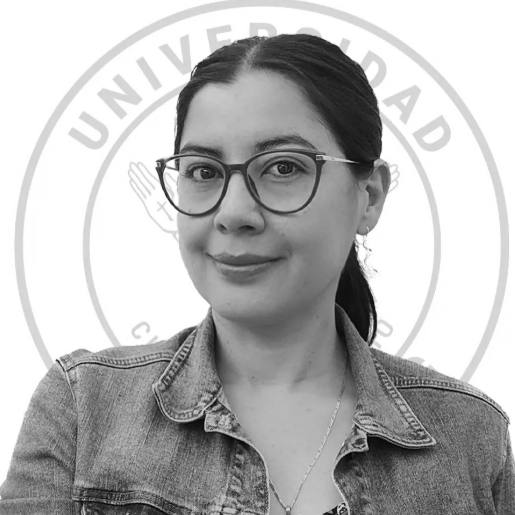
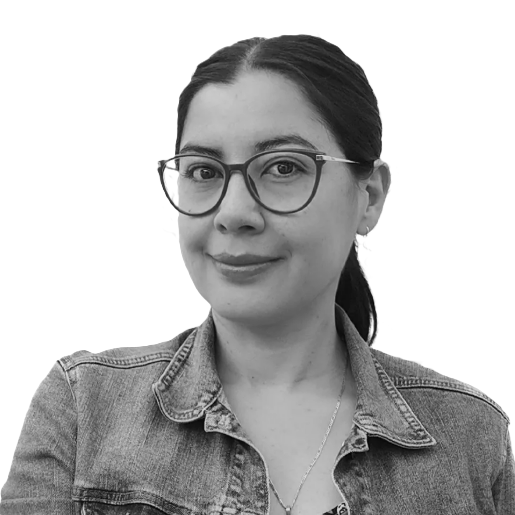
fix: Aplicar paleta estricta de 4 colores de marca, textos literales de docentes y reubicar teaser en home

diff --git a/js/data.js b/js/data.js
@@ -1065,183 +1065,169 @@ const EGRESADOS_DESTACADOS = [
 /* ═══════════════════════════════════════════════════════════════
    CUERPO DOCENTE & INVESTIGADORES (PROFESORADO)
    ═══════════════════════════════════════════════════════════════ */
+/* ═══════════════════════════════════════════════════════════════
+   CUERPO DOCENTE & INVESTIGADORES (PROFESORADO)
+   ═══════════════════════════════════════════════════════════════ */
 const DOCENTES_AREAS = {
-  taller:     { label: "Eje de Taller & Proyectos", color: "#ff7054" },
-  digital:    { label: "Medios Digitales, 3D & Motion", color: "#ffc433" },
-  editorial:  { label: "Editorial, Tipografía & Gráfica", color: "#5bc0f5" },
-  teoria:     { label: "Investigación & Semiótica", color: "#8e6ee8" },
-  publicidad: { label: "Branding, Publicidad & Gestión", color: "#34d399" },
+  taller:     { label: "Eje de Taller & Gestión", color: "#6d4ac4" },
+  digital:    { label: "Medios Digitales, 3D & TIC", color: "#ffc433" },
+  editorial:  { label: "Editorial, Fotografía & Gráfica", color: "#5bc0f5" },
+  publicidad: { label: "Branding, Estrategia & Publicidad", color: "#ff7054" },
+  teoria:     { label: "Investigación & Humanidades", color: "#6d4ac4" },
 };
 
 const DOCENTES = [
   {
     id: "doc-01",
     nombre: "Karen Eugenia Ocaña Figueroa",
-    titulo: "Magíster en Diseño Urbano y Arquitectónico Sustentable (Univ. Gestalt, México) · Especialista en Diseño de Mobiliario (UBA, Argentina)",
-    pregrado: "Diseñadora Industrial (Universidad de Nariño)",
     area: "taller",
     cargo: "Directora del Programa de Diseño Gráfico · Docente Universitaria",
-    trayectoria: "Más de seis años de experiencia liderando la formación en Diseño Gráfico e Industrial y la dirección académica del programa.",
+    perfil:
+      "Diseñadora industrial de la Universidad de Nariño, graduada de la Maestría en Diseño Urbano y Arquitectónico Sustentable de la Universidad Gestalt de Diseño, México, y especialista en Diseño de Mobiliario de la Universidad de Buenos Aires, Argentina. Docente universitaria con más de seis años de experiencia en las áreas del Diseño Gráfico e Industrial.",
     avatar: "assets/img/profesores/karen-ocana.png",
   },
   {
     id: "doc-02",
     nombre: "Mauricio Montenegro",
-    titulo: "Doctor en Tecnologías de la Información y la Comunicación (Tech) · Magíster en Tecnología Educativa y Competencias Digitales (UNIR)",
-    pregrado: "Diseñador Gráfico y Multimedial (Udenar) · Ingeniero de Sistemas (UCC) · Licenciado en Informática (Udenar)",
     area: "digital",
-    cargo: "Docente Investigador · Especialista en Tecnologías Digitales",
-    trayectoria: "Investigador en tecnologías interactivas, entornos multimediales de aprendizaje, informática educativa y competencias digitales avanzadas.",
+    cargo: "Docente Investigador · TIC & Multimedia",
+    perfil:
+      "Doctorado Universidad Tecnológica Tech: Doctorado en Tecnologías de la Información y la Comunicación | Maestría Universidad Internacional de La Rioja: Máster universitario en Tecnología Educativa y Competencias Digitales | Pregrado Universidad de Nariño: Diseño Gráfico y Multimedial | Pregrado INDESCO - Universidad Cooperativa de Colombia: Ingeniería de Sistemas | Pregrado Universidad de Nariño: Licenciatura en Informática.",
     avatar: "assets/img/profesores/mauricio-montenegro.png",
   },
   {
     id: "doc-03",
     nombre: "Karol Ibarra",
-    titulo: "Magíster en Humanidades Digitales · Especialista en Gestión Estratégica del Diseño · Especialista en Lógica y Técnica de la Forma",
-    pregrado: "Diseñadora Industrial",
     area: "digital",
-    cargo: "Docente de Planta · Investigadora",
-    trayectoria: "Especialista en humanidades digitales, morfología y lógica de la forma, y articulación estratégica entre diseño, tecnología y sociedad.",
+    cargo: "Docente de Planta · Humanidades Digitales",
+    perfil:
+      "Diseñadora Industrial | Magíster en Humanidades Digitales | Especialista en Gestión Estratégica del Diseño | Especialista en Lógica y Técnica de la Forma.",
     avatar: "assets/img/profesores/karol-ibarra.png",
   },
   {
     id: "doc-04",
     nombre: "Edison Armando Ramos Bastidas",
-    titulo: "Profesional en Diseño · Estratega en Comunicación Visual y Planeador de Marca",
-    pregrado: "Diseñador Gráfico & Consultor",
     area: "publicidad",
-    cargo: "Docente de Taller · Estratega de Marca",
-    trayectoria: "Consultor y planeador de marca con amplio enfoque en la región de Nariño y el suroccidente colombiano, impulsando la competitividad del diseño local.",
+    cargo: "Docente de Taller · Estrategia de Marca",
+    perfil:
+      "Profesional en diseño, estratega en comunicación y planeador de marca enfocado en la región de Nariño, Colombia.",
     avatar: "assets/img/profesores/edison-ramos.png",
   },
   {
     id: "doc-05",
     nombre: "Karol Suárez",
-    titulo: "Magíster en Desarrollo de Proyectos en Innovación y Producto (UNINI) · Candidata a Magíster en Diseño para la Innovación Social · Especialista en Gerencia de Diseño (UTADEO)",
-    pregrado: "Diseñadora Industrial (Universidad de Nariño)",
     area: "taller",
-    cargo: "Docente de Planta · Asesora de Proyectos",
-    trayectoria: "Experta en gerencia del diseño, desarrollo de producto centrado en las personas, metodologías de innovación y codiseño social.",
+    cargo: "Docente de Planta · Innovación y Producto",
+    perfil:
+      "Diseñadora Industrial de la Universidad de Nariño, Especialización en Gerencia de Diseño de la Universidad Jorge Tadeo Lozano, Magíster en Desarrollo de Proyectos en Innovación y Producto de la Universidad Internacional Iberoamericana de Puerto Rico y Candidata a Magíster en Diseño para la Innovación Social.",
     avatar: "assets/img/profesores/karol-suarez.png",
   },
   {
     id: "doc-06",
     nombre: "Mauricio Feuillet",
-    titulo: "Especialista en Docencia Universitaria · Especialista en Gerencia en Diseño · Candidato a Magíster en Diseño para la Innovación Social",
-    pregrado: "Diseñador Industrial",
     area: "taller",
-    cargo: "Docente de Diseño · Asesor Pedagógico",
-    trayectoria: "Amplia trayectoria en pedagogía del diseño, gestión estratégica de talleres creativos y formulación de proyectos para la innovación social.",
+    cargo: "Docente de Diseño · Innovación Social",
+    perfil:
+      "Diseñador Industrial, Docente Diseño, Especialista en Docencia Universitaria, Especialista en Gerencia en Diseño y Candidato a Magíster en Diseño para la Innovación Social.",
     avatar: "assets/img/profesores/mauricio-feuillet.png",
   },
   {
     id: "doc-07",
     nombre: "Arturo De la Cruz",
-    titulo: "Magíster en Diseño y Creación Interactiva (U. de Caldas) · Posgrado en Artes Mediales (U. de Córdoba Arg – U. de Chile – U. de Caldas)",
-    pregrado: "Ingeniero de Sistemas y Diseñador Gráfico",
     area: "digital",
-    cargo: "Docente Investigador · Creador Interactivo",
-    trayectoria: "Pionero en la integración de artes mediales, computación creativa, entornos interactivos y experimentación tecnológica en el aula.",
+    cargo: "Docente Investigador · Artes Mediales",
+    perfil:
+      "Ingeniero de Sistemas, Diseñador Gráfico, Posgrado en Artes Mediales de la Universidad de Córdoba (Arg) – Universidad de Chile – Universidad de Caldas y Magíster en Diseño y Creación Interactiva de la Universidad de Caldas.",
     avatar: "assets/img/profesores/arturo-de-la-cruz.png",
   },
   {
     id: "doc-08",
     nombre: "Mateo Terán",
-    titulo: "Magíster en Comunicación e Identidad Corporativa (Universidad Internacional de La Rioja - UNIR)",
-    pregrado: "Diseñador Gráfico",
     area: "publicidad",
-    cargo: "Docente de Taller · Consultor de Identidad",
-    trayectoria: "Especialista en sistemas de identidad visual, comunicación estratégica de marca y gestión de imagen corporativa para medios impresos y digitales.",
+    cargo: "Docente de Taller · Identidad Corporativa",
+    perfil:
+      "Diseñador Gráfico, Magíster en Comunicación e Identidad Corporativa de la Universidad Internacional de La Rioja.",
     avatar: "assets/img/profesores/mateo-teran.png",
   },
   {
     id: "doc-09",
     nombre: "Ramón Ortega",
-    titulo: "Magíster en Diseño y Creación Interactiva (U. de Caldas) · Posgrado en Artes Mediales (U. de Córdoba Arg – U. de Chile – U. de Caldas)",
-    pregrado: "Diseñador Gráfico",
     area: "digital",
-    cargo: "Docente de Planta · Exmiembro Consejo Directivo RAD (2016-2018)",
-    trayectoria: "Líder académico en artes mediales y creación interactiva, con destacada representación institucional en la Red Académica de Diseño (RAD).",
+    cargo: "Docente de Planta · Creación Interactiva",
+    perfil:
+      "Diseñador Gráfico, Posgrado en Artes Mediales de la Universidad de Córdoba (Arg) – Universidad de Chile – Universidad de Caldas y Magíster en Diseño y Creación Interactiva de la Universidad de Caldas. Miembro del Consejo Directivo de la Red Colombiana Académica de Diseño RAD periodo 2016-2018.",
     avatar: "assets/img/profesores/ramon-ortega.png",
   },
   {
     id: "doc-10",
     nombre: "Fernando Coral",
-    titulo: "Magíster en Diseño y Creación Interactiva (U. de Caldas) · Especialista en Gerencia del Diseño (UTADEO) · Tecnólogo en Producción de Radio y TV (CST)",
-    pregrado: "Diseñador Gráfico (Universidad Jorge Tadeo Lozano)",
     area: "digital",
-    cargo: "Docente de Medios Audiovisuales y Multimedia",
-    trayectoria: "Especialista en producción audiovisual, narrativa transmedia, medios sonoros y gestión gerencial de proyectos de diseño interactivo.",
+    cargo: "Docente de Medios Audiovisuales · Gerencia del Diseño",
+    perfil:
+      "Tecnólogo en Producción de Radio y Televisión del Colegio Superior de Telecomunicaciones, Diseñador Gráfico de la Universidad Jorge Tadeo Lozano, Especialista en Gerencia del Diseño de la Universidad Jorge Tadeo Lozano y Magíster en Diseño y Creación Interactiva de la Universidad de Caldas.",
     avatar: "assets/img/profesores/fernando-coral.png",
   },
   {
     id: "doc-11",
     nombre: "Amanda Arteaga",
-    titulo: "Magíster en Etnoliteratura · Especialista en Estudios Latinoamericanos · Diplomada en Pensamiento de Diseño e Identidad Gorettiana",
-    pregrado: "Profesional en Filosofía",
     area: "teoria",
-    cargo: "Docente Investigadora · Coordinadora de Área Teórica",
-    trayectoria: "Investigadora en etnoliteratura andina, pensamiento crítico, estudios culturales latinoamericanos y semiótica visual de la memoria regional.",
+    cargo: "Docente Investigadora · Etnoliteratura",
+    perfil:
+      "Docente Investigadora, Magíster en Etnoliteratura, Especialización en Estudios Latinoamericanos, Pregrado en Filosofía, Cursos de corta duración Universidad, Investigación diplomado en Identidad Gorettiana, diplomado en Pensamiento de Diseño.",
     avatar: "assets/img/profesores/amanda-arteaga.png",
   },
   {
     id: "doc-12",
     nombre: "Carlos Jiménez",
-    titulo: "Diseñador Gráfico, Investigador Visual y Fotógrafo Internacional · Reconocido en Sony World Photography Awards y 35Awards",
-    pregrado: "Diseñador Gráfico",
     area: "editorial",
-    cargo: "Docente de Fotografía, Editorial y Museografía",
-    trayectoria: "Trayectoria en diseño editorial, branding, museografía, fotografía de paisaje y arquitectura, y realización de cortometrajes galardonados.",
+    cargo: "Docente de Fotografía, Editorial & Museografía",
+    perfil:
+      "Diseñador Gráfico, Investigador y Fotógrafo colombiano. Mi experiencia abarca el Diseño Editorial, Publicitario, Branding y Museografía, así como la Fotografía de Paisaje, Naturaleza y Arquitectura. Además, me he aventurado en la producción audiovisual hasta la creación de cortometrajes, Mi carrera se ha caracterizado por un compromiso constante con la constancia y la innovación mediante la fotografía, llevándome a espacios de reconocimiento internacional como los Sony World Photography Awards o los 35Awards.",
     avatar: "assets/img/profesores/carlos-jimenez.png",
   },
   {
     id: "doc-13",
     nombre: "Juan Pinzón",
-    titulo: "Candidato a Magíster en Diseño Fotográfico (U. Iberoamericana, México) · Profesor de Tiempo Completo Universidad de Celaya y Univ. Latina de México",
-    pregrado: "Diseñador de Comunicación Visual (Pontificia Universidad Javeriana de Cali)",
     area: "editorial",
-    cargo: "Docente Invitado · Fotógrafo Documental",
-    trayectoria: "Desarrolla proyectos de fondo cultural y documental exaltando el valor del ser humano como eje de memoria, conservación y evolución cultural.",
+    cargo: "Docente Invitado · Fotografía Documental",
+    perfil:
+      "Fotógrafo colombiano, residente en México, Diseñador de Comunicación Visual de la Universidad Javeriana de Cali Colombia y candidato a Magíster en Diseño Fotográfico por la Universidad Iberoamericana de México. Actualmente se desempeña como profesor tiempo completo de la Universidad de Celaya y profesor por horas en la Universidad Latina de México (Celaya). Su trabajo de perfil documental se centra en desarrollar proyectos de fondo cultural donde exalta el valor del ser humano como eje fundamental de la memoria, conservación y evolución cultural.",
     avatar: "assets/img/profesores/juan-pinzon.png",
   },
   {
     id: "doc-14",
-    nombre: "Camilo Andrés Varona Guerrero",
-    titulo: "Maestro Artesano Contemporáneo · Fundador de Taller Makaco (Art Toys) · Docente Universitario",
-    pregrado: "Diseñador Gráfico (Universidad CESMAG)",
+    nombre: "Camilo Varona",
     area: "taller",
-    cargo: "Docente de Taller · Coordinación de Egresados UNICESMAG",
-    trayectoria: "Fundador de Makaco (2012), pionero en art toys artesanales que fusionan ilustración, narrativa andina y memoria oral tradicional con proyección internacional.",
+    cargo: "Docente de Taller · Art Toys & Ilustración",
+    perfil:
+      "Diseñador gráfico de la Universidad CESMAG, encontró en la ilustración y la cuentería una forma de dar vida a la tradición oral que marcó su infancia. En 2012 fundó su taller Makaco, dedicado a la creación artesanal de art toys, donde fusiona técnica, narrativa y memoria. Su obra, reconocida dentro y fuera del país, transforma el juego en arte y la artesanía en un lenguaje contemporáneo. Como maestro artesano contemporáneo, su trabajo celebra la imaginación y rescata las historias del territorio, recordando que cada pieza es un pequeño universo hecho a mano.",
     avatar: "assets/img/profesores/camilo-varona.png",
   },
   {
     id: "doc-15",
     nombre: "Leonardo Hidalgo",
-    titulo: "Especialista en Medios Digitales y Tipografía · Diseñador Gráfico",
-    pregrado: "Diseñador Gráfico",
     area: "editorial",
-    cargo: "Docente de Taller de Tipografía y Medios Impresos",
-    trayectoria: "Especialista en diseño de fuentes tipográficas, sistemas de maquetación editorial y experimentación gráfica análoga y digital.",
+    cargo: "Docente de Taller · Tipografía y Medios Digitales",
+    perfil:
+      "Diseñador Gráfico con trayectoria docente en tipografía aplicada, procesos editoriales y experimentación visual en medios impresos y digitales.",
     avatar: "assets/img/profesores/leonardo-hidalgo.png",
   },
   {
     id: "doc-16",
     nombre: "Natalia Timarán",
-    titulo: "Magíster en Procesos Creativos y Diseño Social · Docente Investigadora",
-    pregrado: "Diseñadora Gráfica",
     area: "teoria",
-    cargo: "Docente de Investigación-Creación y Diseño Social",
-    trayectoria: "Acompañamiento a comunidades rurales y colectivos culturales en procesos de co-creación visual, género e identidad territorial.",
+    cargo: "Docente Investigadora · Diseño Social",
+    perfil:
+      "Diseñadora Gráfica, docente e investigadora enfocada en procesos creativos, diseño social participativo y proyectos comunitarios en el suroccidente colombiano.",
     avatar: "assets/img/profesores/natalia-timaran.png",
   },
   {
     id: "doc-17",
     nombre: "Wilmer Zambrano",
-    titulo: "Especialista en Producción Gráfica y Medios Interactivos · Diseñador Gráfico",
-    pregrado: "Diseñador Gráfico",
     area: "digital",
-    cargo: "Docente de Laboratorios Digitales y Producción",
-    trayectoria: "Experto en preprensa digital, modelado tridimensional, renderizado de producto y dirección de arte para medios interactivos.",
+    cargo: "Docente de Laboratorios Digitales · Producción",
+    perfil:
+      "Diseñador Gráfico, docente de laboratorios digitales y producción gráfica con énfasis en modelado, preprensa y medios interactivos.",
     avatar: "assets/img/profesores/wilmer-zambrano.png",
   },
 ];

diff --git a/index.html b/index.html
@@ -213,6 +213,16 @@
   <!-- ══════════════ 7 · PRESENCIA INSTITUCIONAL & ATENCIÓN INMEDIATA ══════════════ -->
   <section class="section section--light" id="direccion-ubicacion">
     <div class="container">
+      <!-- Banner Teaser Docentes -->
+      <div class="docentes-teaser-box reveal" style="margin-top: 0; margin-bottom: 48px;">
+        <div class="docentes-teaser-box__content">
+          <span class="kicker" style="color: var(--morado);">Cuerpo Académico &amp; Mentoría</span>
+          <h3>Planta Docente Calificada · 100% con Formación Posgradual</h3>
+          <p>Conoce a los docentes, magísteres, especialistas e investigadores que lideran los talleres creativos, laboratorios de medios y proyectos del programa.</p>
+        </div>
+        <a href="docentes.html" class="btn btn--primary">Conocer a los profesores ↗</a>
+      </div>
+
       <header class="section__head reveal">
         <p class="kicker">Presencia Institucional &amp; Contacto Directo</p>
         <h2>Dirección, Campus Santiago y Atención Inmediata</h2>
@@ -304,16 +314,6 @@
             </form>
           </article>
         </div>
-      </div>
-
-      <!-- Banner Teaser Docentes -->
-      <div class="docentes-teaser-box reveal">
-        <div class="docentes-teaser-box__content">
-          <span class="kicker" style="color: var(--morado);">Cuerpo Académico de Excelencia</span>
-          <h3>100% de Docentes con Formación Posgradual</h3>
-          <p>Nuestra planta docente está conformada por magísteres, especialistas e investigadores activos en la industria del diseño, la academia y la investigación comunitaria.</p>
-        </div>
-        <a href="docentes.html" class="btn btn--primary">Conocer a los profesores ↗</a>
       </div>
     </div>
   </section>

diff --git a/js/main.js b/js/main.js
@@ -862,21 +862,13 @@
             '<div class="docente-card__header">' +
               avatarHtml +
               '<div class="docente-card__meta">' +
-                '<span class="docente-card__tag" style="background: ' + areaInfo.color + '22; color: ' + areaInfo.color + ';">' + areaInfo.label + '</span>' +
+                '<span class="docente-card__tag" style="background: ' + areaInfo.color + '22; color: ' + areaInfo.color + '; border: 1px solid ' + areaInfo.color + '44;">' + areaInfo.label + '</span>' +
                 '<h3 class="docente-card__name">' + d.nombre + '</h3>' +
-                '<p class="docente-card__titulo"><strong>' + d.titulo + '</strong></p>' +
-                '<p class="docente-card__pregrado">' + d.pregrado + '</p>' +
+                '<p class="docente-card__cargo">' + d.cargo + '</p>' +
               '</div>' +
             '</div>' +
             '<div class="docente-card__body">' +
-              '<div class="docente-card__detail">' +
-                '<span class="docente-card__lbl">Rol Académico:</span>' +
-                '<p>' + d.cargo + '</p>' +
-              '</div>' +
-              '<div class="docente-card__detail">' +
-                '<span class="docente-card__lbl">Trayectoria &amp; Enfoque:</span>' +
-                '<p>' + d.trayectoria + '</p>' +
-              '</div>' +
+              '<p class="docente-card__perfil">' + d.perfil + '</p>' +
             '</div>' +
           '</article>'
         );

diff --git a/docentes.html b/docentes.html
@@ -75,11 +75,11 @@
       <!-- Filtros por área disciplinar -->
       <div class="filters reveal" id="docentesFilters" role="tablist" aria-label="Filtrar docentes por área">
         <button class="filter is-active" data-filter="todos" role="tab" aria-selected="true">Todos los docentes</button>
-        <button class="filter" data-filter="taller" role="tab" aria-selected="false">Taller &amp; Proyectos</button>
+        <button class="filter" data-filter="taller" role="tab" aria-selected="false">Taller &amp; Gestión</button>
         <button class="filter" data-filter="digital" role="tab" aria-selected="false">Medios Digitales &amp; 3D</button>
-        <button class="filter" data-filter="editorial" role="tab" aria-selected="false">Editorial &amp; Tipografía</button>
-        <button class="filter" data-filter="teoria" role="tab" aria-selected="false">Investigación &amp; Semiótica</button>
-        <button class="filter" data-filter="publicidad" role="tab" aria-selected="false">Branding &amp; Gestión</button>
+        <button class="filter" data-filter="editorial" role="tab" aria-selected="false">Editorial, Foto &amp; Gráfica</button>
+        <button class="filter" data-filter="publicidad" role="tab" aria-selected="false">Branding &amp; Estrategia</button>
+        <button class="filter" data-filter="teoria" role="tab" aria-selected="false">Investigación &amp; Humanidades</button>
       </div>
 
       <!-- Retícula de Docentes -->

diff --git a/css/styles.css b/css/styles.css
@@ -2298,45 +2298,27 @@ a.cd-item:hover {
   margin-bottom: 6px;
 }
 .docente-card__name {
-  font-size: 1.12rem;
+  font-size: 1.15rem;
   font-weight: 800;
   color: var(--ink);
   line-height: 1.25;
   margin-bottom: 4px;
 }
-.docente-card__titulo {
+.docente-card__cargo {
   font-size: .84rem;
+  font-weight: 600;
   color: var(--morado);
   line-height: 1.35;
-  margin-bottom: 2px;
-}
-.docente-card__pregrado {
-  font-size: .78rem;
-  color: var(--ink-soft);
 }
 
 .docente-card__body {
-  display: flex;
-  flex-direction: column;
-  gap: 12px;
   flex: 1;
 }
-.docente-card__detail {
-  display: flex;
-  flex-direction: column;
-  gap: 2px;
-}
-.docente-card__lbl {
-  font-size: .74rem;
-  font-weight: 700;
+.docente-card__perfil {
+  font-size: .88rem;
   color: var(--ink-soft);
-  text-transform: uppercase;
-  letter-spacing: .05em;
-}
-.docente-card__detail p {
-  font-size: .86rem;
-  color: var(--ink);
-  line-height: 1.4;
+  line-height: 1.55;
+  margin: 0;
 }
 
 .docentes-callout {
